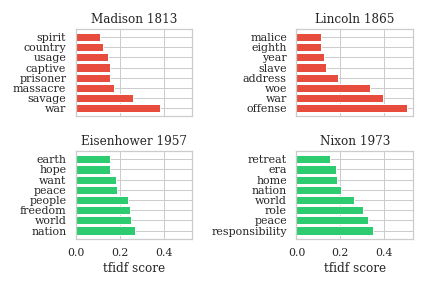
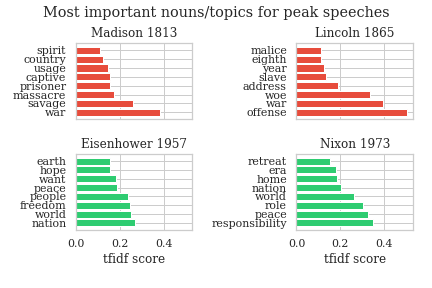
change title of part 3 plot

Changed region(s): [[0.0301, 0.0312, 0.963, 0.4375], [0.4815, 0.4688, 0.963, 0.9688], [0.0301, 0.4688, 0.4514, 0.9688]]

diff --git a/president_speeches.py b/president_speeches.py
@@ -79,6 +79,7 @@ def plot_words_peek_years(data, TOP_N):
     row_ind = [0,0,1,1]
     col_ind = [0,1,0,1]
     fig, ax = plt.subplots(ncols=2,nrows=2, sharex=True)
+    fig.suptitle('Most important nouns/topics for peak speeches')
     for president, year, color, i, j in zip(president_list, year_list, 
                                             color_list, row_ind, col_ind):
         # top words with corresponding tfidf
@@ -87,8 +88,7 @@ def plot_words_peek_years(data, TOP_N):
         ax[i,j].set_title(f'{president} {year}')
     ax[1,1].set_xlabel('tfidf score')
     ax[1,0].set_xlabel('tfidf score')
-    ax.set_title('Most important nouns/topics for peeks')
-    fig.tight_layout()
+    fig.tight_layout(rect=[0, 0.03, 1, 0.95])
     fig.savefig('images/peek_years.png')
 
 
